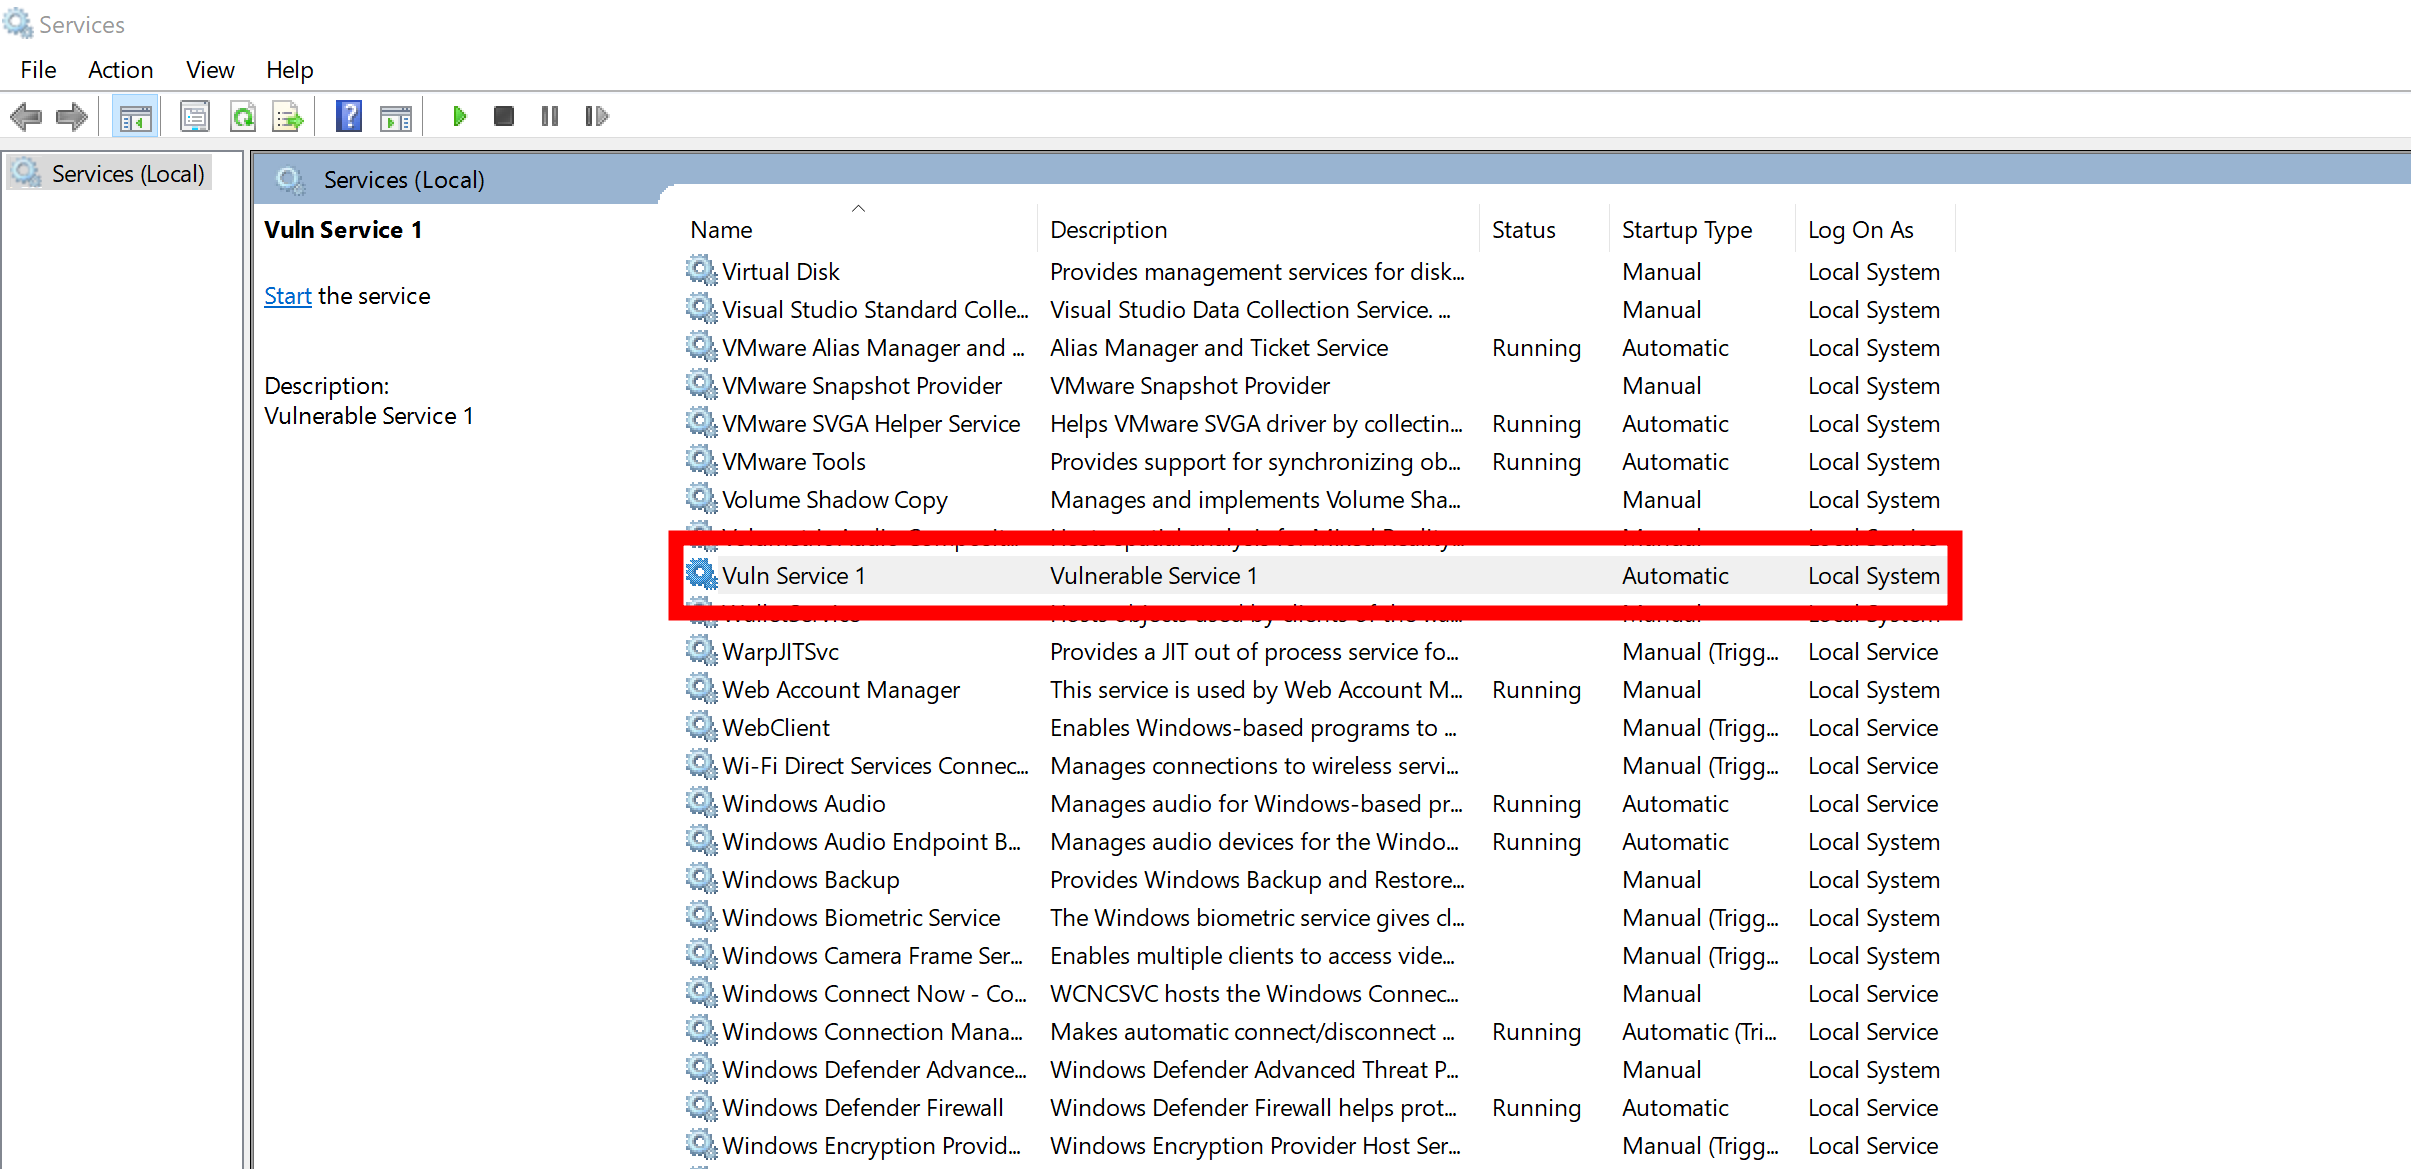
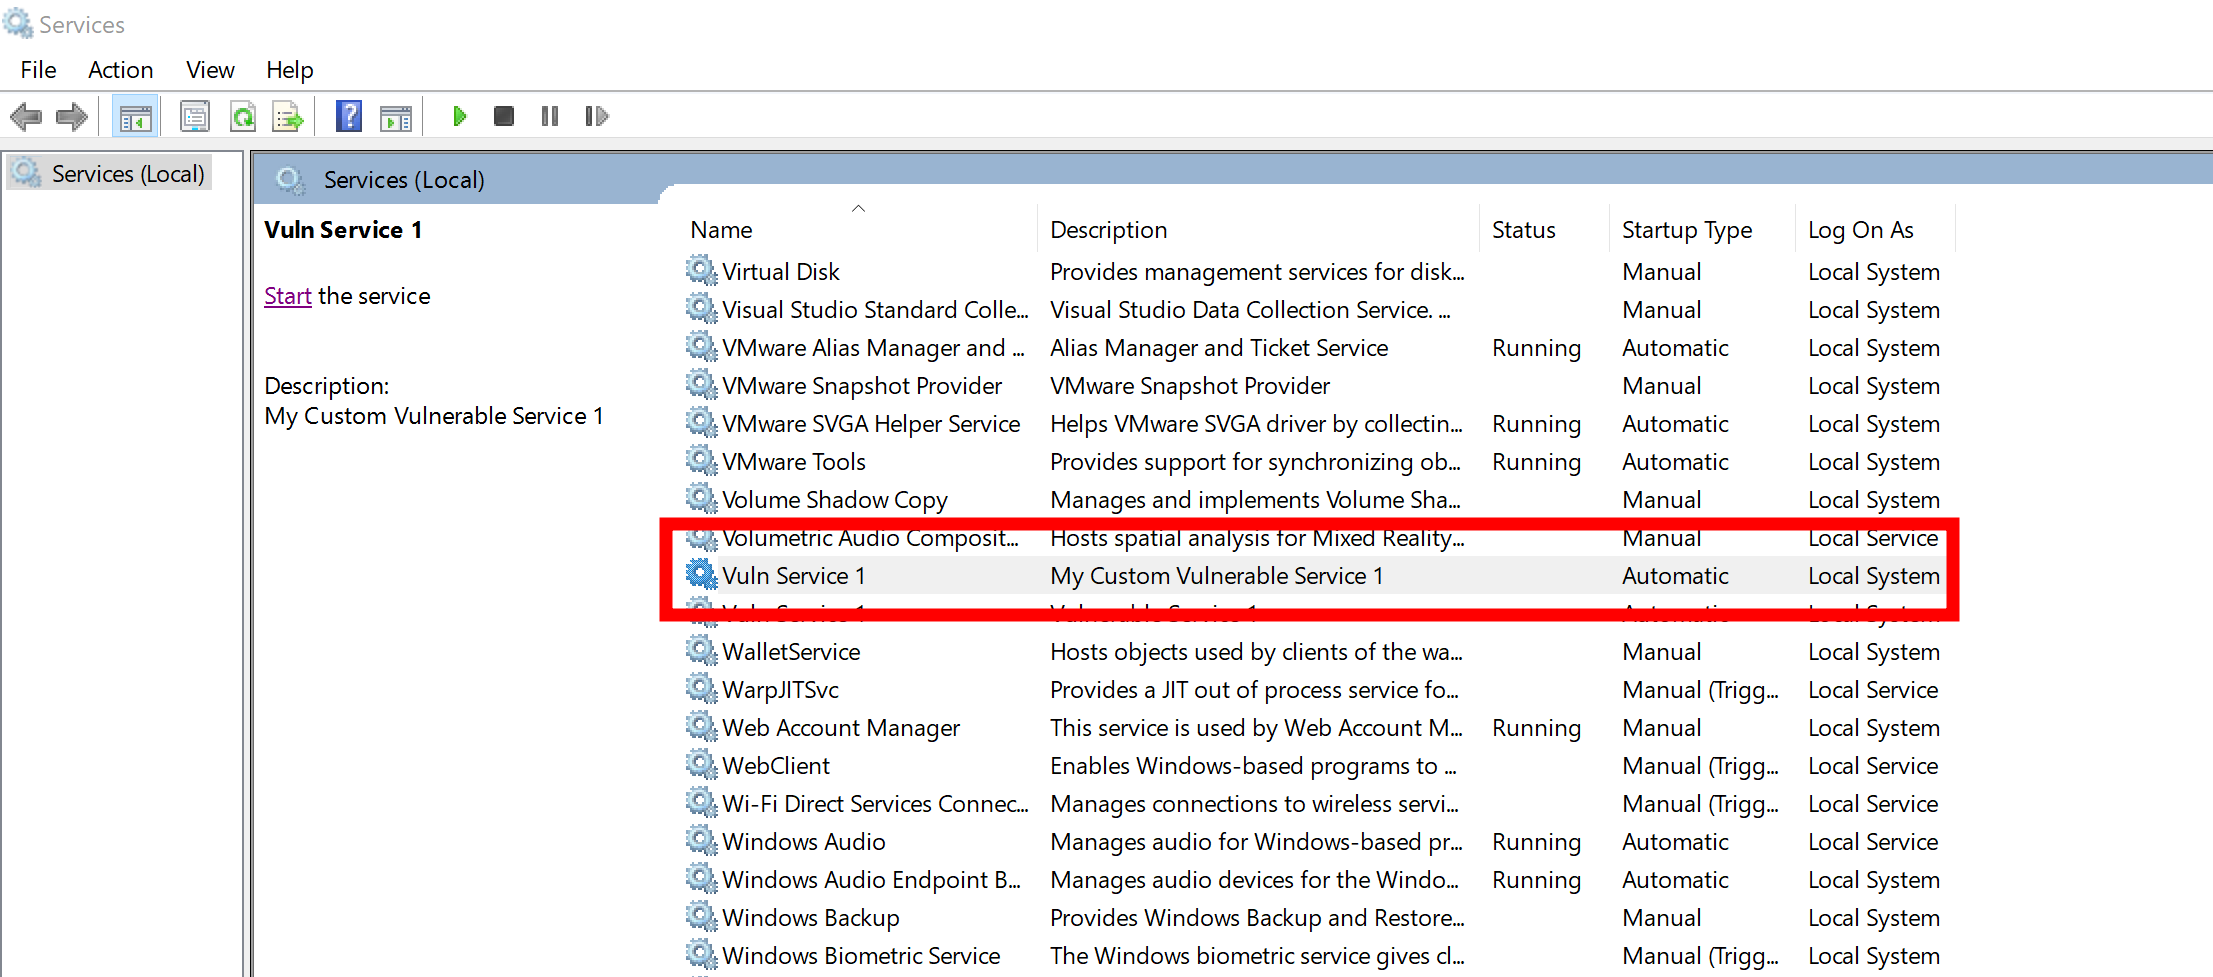
Edit UnquotedServicePath

Changed region(s): [[0.0, 0.0, 1.0, 1.0]]

diff --git a/Lab-Setup-Source-Code/Service 1.cs b/Lab-Setup-Source-Code/Service 1.cs
@@ -11,7 +11,7 @@ using System.Timers;
 using System.IO;
 using System.Runtime.InteropServices.WindowsRuntime;
 
-namespace Service 1
+namespace Service_1
 {
     public partial class Service1 : ServiceBase
     {

diff --git a/Notes/UnquotedServicePath.md b/Notes/UnquotedServicePath.md
@@ -17,7 +17,7 @@
 
 ## Description
 
-The unquoted service path vulnerability in Windows occurs when services are installed using paths containing spaces without proper quotation marks. If attackers obtain write permissions in the service's installation directory, they can execute malicious code with elevated privileges.
+The Unquoted Service Path vulnerability in Windows occurs when services are installed using paths containing spaces without proper quotation marks. If attackers obtain write permissions in the service's installation directory, they can execute malicious code with elevated privileges.
 
 In Windows, when a file path contains spaces and isn't enclosed within quotation marks, the operating system assumes the file's location based on predetermined rules.
 
@@ -35,10 +35,72 @@ This process involves checking potential paths in a sequence similar to the foll
 
 ### Manual Lab Setup
 
+1) Open a PowerShell with local Administrtor Privileges and use the following command to create a new folder:
+
+```
+mkdir C:\Program` Files\Vulnerable` Service1
+```
+
+2) Download the file [Service 1.exe](/Lab-Setup-Binary/Service%201.exe) to the 'C:\Program Files\Vulnerable Service1' directory.
+
+3) Grant write privileges to BUILTIN\Users for the service folder:
+
+```
+icacls "C:\Program Files\Vulnerable Service1" /grant BUILTIN\Users:W
+```
+
+4) Install the new Service:
+
+```
+New-Service -Name "Vulnerable Service 1" -BinaryPathName "C:\Program Files\Vulnerable Service1\Service 1.exe" -DisplayName "Vuln Service 1" -Description "My Custom Vulnerable Service 1" -StartupType Automatic
+```
+
+5) Edit new service's permissions to be controlled by BUILTIN\Users:
+
+```
+cmd.exe /c 'sc sdset "Vulnerable Service 1" D:(A;;CCLCSWRPWPDTLOCRRC;;;SY)(A;;CCDCLCSWRPWPDTLOCRSDRCWDWO;;;BA)(A;;CCLCSWLOCRRC;;;AU)(A;;CCLCSWRPWPDTLOCRRC;;;PU)(A;;RPWP;;;BU)'
+```
+
+Outcome:
+
+![Unquoted-Service-Path-Manual-Lab-Setup](/Pictures/Unquoted-Service-Path-Manual-Lab-Setup.png)
+
+6) Verify the new service (services.msc):
+
+![Unquoted-Service-Path-Manual-Lab-Setup-Verify](/Pictures/Unquoted-Service-Path-Manual-Lab-Setup-Verify.png)
+
+7) Manually start the service from the service panel, or reboot the machine due to the service is set to start automatically upon machine boot.
+
+:information_source: If you want to unistall the new service use the following command:
+
+```
+Remove-Service -Name "Vulnerable Service 1"
+```
+
+### PowerShell Script Lab Setup
+
+To set up the lab with the 'Unquoted Service Path' vulnerability is by using the custom PowerShell script named [UnquotedServicePath.ps1](/Lab-Setup-Scripts/UnquotedServicePath.ps1).
+
+1) Open a PowerShelll with local Administrator privileges and run the script:
+
+```
+.\WeakServicePermissions.ps1
+```
+
+Outcome:
+
+
+2) Manually start the service from the service panel, or reboot the machine due to the service is set to start automatically upon machine boot.
+
+:information_source: If you want to unistall the new service use the following command:
+
+```
+Remove-Service -Name "Vulnerable Service 1"
+```
+
 ## Enumeration
 
 ### Tool Enumeration
-
 
 To run the SharpUp tool and perform an enumeration of the `Unquoted Service Path` vulnerability, you can execute the following command with appropriate arguments:
 
@@ -47,6 +109,8 @@ SharpUp.exe audit UnquotedServicePath
 ```
 
 Outcome:
+
+![Unquoted-Service-Tool-Enumeration](/Pictures/Unquoted-Service-Tool-Enumeration.png)
 
 ## References
 
